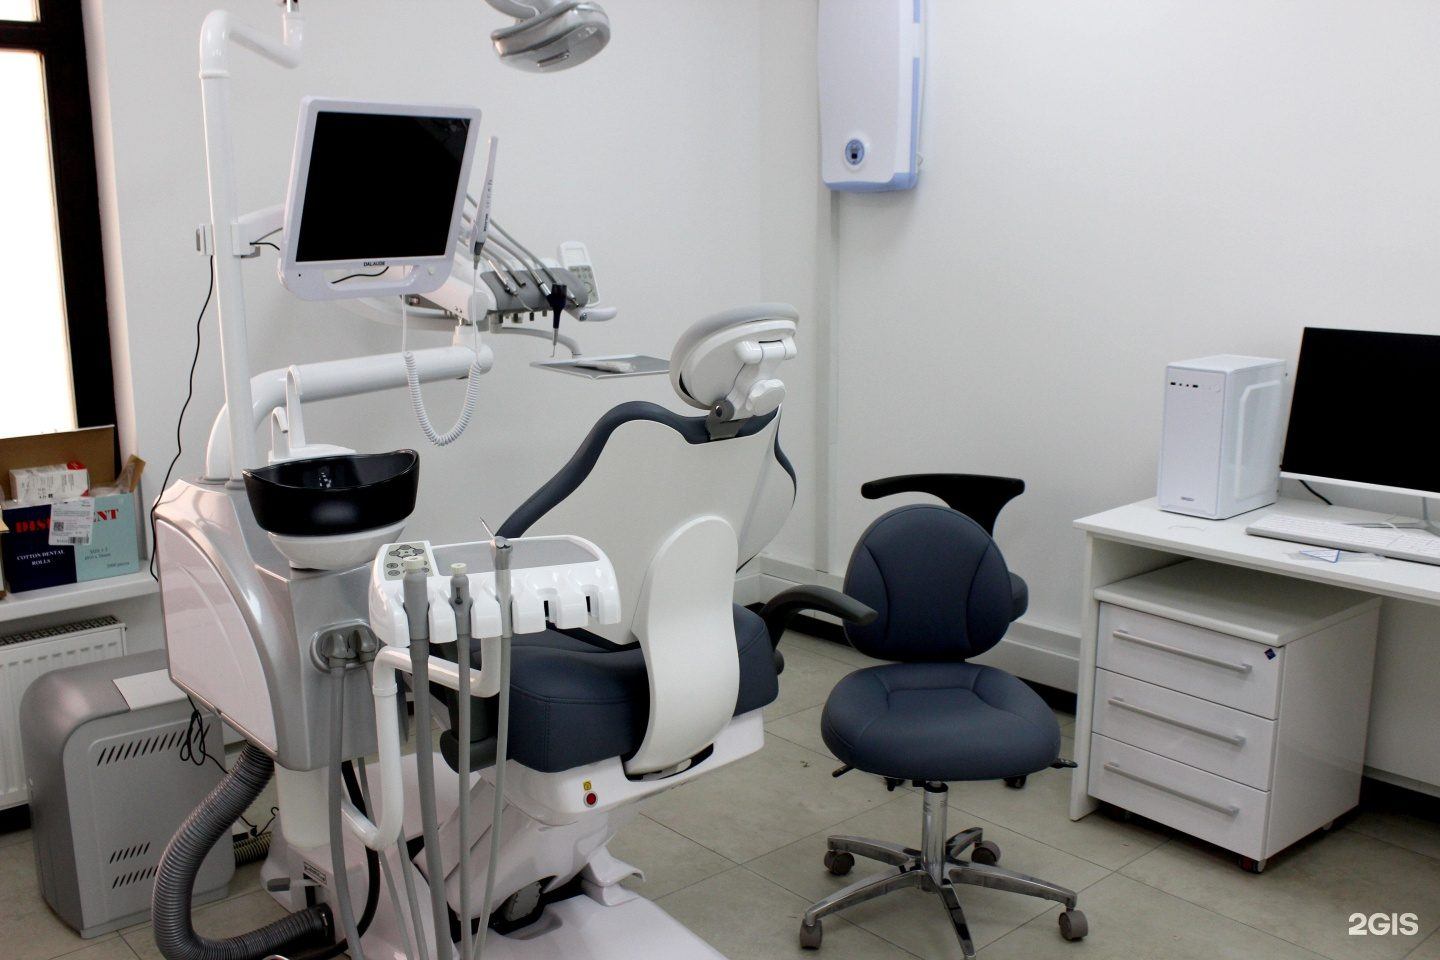
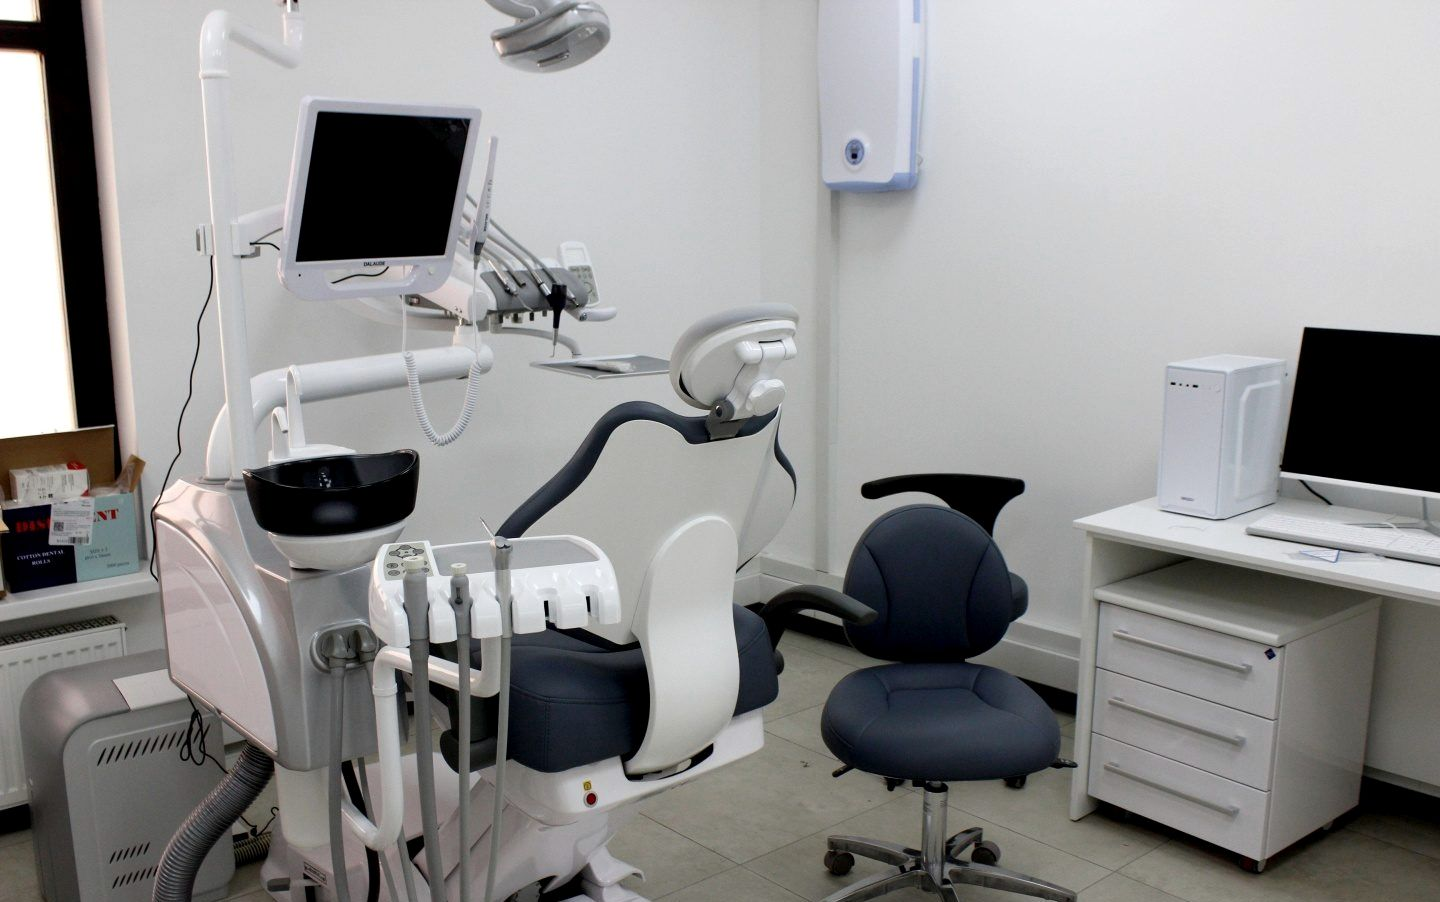
Визуал: карточки услуг с картинками одной серии, фото в круге, ровные колонки, единая обработка фото
Черновик без публикации: новые фото со старого сайта и серия картинок услуг ещё в пути.

Claude-Session: https://claude.ai/code/session_01HyCkfTANowYXdmctWktKaR

diff --git a/src/assets/styles.css b/src/assets/styles.css
@@ -963,3 +963,70 @@ html:not(.js-intro) .intro { display: none; }
   .btn, .btn--lg { font-size: 15px; padding-left: 14px; padding-right: 14px; }
   .doc__cta { font-size: 14px; padding-left: 8px; padding-right: 8px; }
 }
+
+/* ---------- визуальная система 16.10: карточки с картинками одной серии, фото в круге, ровные колонки ---------- */
+/* «С чем вы к нам придёте»: сетка 4 × 2, у каждой карточки своя картинка; восьмая карточка — перезвон */
+.sit-grid { grid-template-columns: repeat(4, minmax(0, 1fr)); }
+.sit, .sit:nth-child(n + 6) { grid-column: auto; min-height: 0; padding: 10px; gap: 0; justify-content: flex-start; }
+.sit::before { display: none; }
+.sit:hover { color: var(--text); }
+.sit:hover .sit__body p { color: var(--muted); }
+.sit__img { position: relative; display: block; aspect-ratio: 4 / 3; overflow: hidden; border-radius: calc(var(--radius) - 8px); background: var(--paper-2); }
+.sit__img img { width: 100%; height: 100%; object-fit: cover; transition: transform 1.2s var(--ease); }
+.sit:hover .sit__img img { transform: scale(1.05); }
+.sit__body { padding: 20px 12px 0; gap: 10px; }
+.sit h3 { font-size: clamp(22px, 1.75vw, 28px); }
+.sit__body p { font-size: 15px; }
+.sit__foot { margin-top: auto; padding: 22px 12px 12px; flex-direction: column; align-items: flex-start; justify-content: flex-end; gap: 12px; }
+.sit--more { background: var(--ink); color: #fff; padding: clamp(22px, 2vw, 30px); }
+.sit--more:hover { color: #fff; }
+.sit--more .sit__body { padding: 0; }
+.sit--more h3 { font-size: clamp(26px, 2.2vw, 36px); }
+.sit--more .sit__body p, .sit--more:hover .sit__body p { color: var(--muted-on-dark); font-size: 16px; }
+.sit--more .sit__foot { padding: 22px 0 0; }
+
+/* «О клинике»: под заголовком фото в круглой маске, колонки уравновешены, без коллажа */
+.about__left { display: grid; gap: clamp(32px, 4vw, 60px); align-content: start; justify-items: start; }
+.about__circle { margin: 0; width: min(100%, 440px); aspect-ratio: 1; border-radius: 50%; overflow: hidden; background: var(--paper-2); }
+.about__circle img { width: 100%; height: 115%; object-fit: cover; }
+.js-anim .about__circle[data-clip] { clip-path: inset(18% 0 18% 0 round 50%); }
+
+/* «Сохранить / Восстановить»: две одинаковые карточки, верх и кнопки на одной линии */
+.fork { align-items: stretch; }
+.fork__col + .fork__col { margin-top: 0; }
+.fork__col { display: flex; flex-direction: column; align-items: flex-start; padding: clamp(24px, 3vw, 44px); border-radius: var(--radius); background: var(--white); }
+.fork__col .cta-box { margin-top: auto; padding-top: 30px; }
+.fork__img { margin: 0 0 clamp(22px, 2.4vw, 32px); width: 100%; aspect-ratio: 16 / 9; border-radius: calc(var(--radius) - 8px); overflow: hidden; background: var(--paper-2); }
+.fork__img img { width: 100%; height: 115%; object-fit: cover; }
+
+/* «Детям»: портрет детского врача в круге */
+.kids__doc { margin: 0; display: grid; justify-items: center; gap: 18px; align-self: center; }
+.kids__circle { display: block; width: min(100%, 460px); aspect-ratio: 1; border-radius: 50%; overflow: hidden; background: var(--sage-2); }
+.kids__circle img { width: 100%; height: 115%; object-fit: cover; object-position: 50% 12%; }
+.js-anim .kids__circle[data-clip] { clip-path: inset(18% 0 18% 0 round 50%); }
+.kids__doc figcaption { display: grid; justify-items: center; gap: 2px; text-align: center; }
+.kids__doc figcaption a { font: 500 20px/1.2 var(--display); letter-spacing: -.01em; color: var(--text); text-decoration: none; }
+.kids__doc figcaption span { font-size: 14px; color: var(--muted); }
+
+@media (max-width: 1200px) {
+  .sit-grid { grid-template-columns: repeat(2, minmax(0, 1fr)); }
+}
+@media (max-width: 1024px) {
+  .about__circle { width: min(70%, 380px); }
+}
+@media (max-width: 760px) {
+  /* компактные карточки: картинка слева, текст справа, кнопка снизу на всю ширину */
+  .sit-grid { grid-template-columns: minmax(0, 1fr); }
+  .sit { display: grid; grid-template-columns: 112px minmax(0, 1fr); column-gap: 14px; padding: 10px; }
+  .sit__img { grid-row: 1; aspect-ratio: 1; border-radius: var(--radius-sm); }
+  .sit__body { grid-row: 1; padding: 4px 4px 0 0; gap: 6px; }
+  .sit h3 { font-size: 20px; }
+  .sit__body p { font-size: 14px; line-height: 1.45; }
+  .sit__foot { grid-column: 1 / -1; padding: 14px 2px 2px; }
+  .sit--more { display: flex; padding: 22px; }
+  .about__left { justify-items: center; }
+  .about__left .about__statement { justify-self: start; }
+  .about__circle { width: min(78%, 320px); }
+  .kids__circle { width: min(78%, 320px); }
+  .fork__col { padding: 22px; }
+}

diff --git a/scripts/photos.py b/scripts/photos.py
@@ -1,0 +1,65 @@
+"""Единая обработка фотографий сайта.
+
+Исходники лежат в src/photos-raw/<папка>/ (в сайт не попадают), результат пишется
+в src/images/<папка>/ с тем же именем в JPEG. Повторный запуск ничего не портит.
+
+Что делаем с каждым фото:
+- 2ГИС: отрезаем нижнюю полосу с водяным знаком «2GIS»;
+- выравниваем баланс белого наполовину (без синевы и желтизны, но без «пластика»);
+- чуть приглушаем насыщенность и выравниваем контраст, чтобы фото из разных
+  источников (2ГИС, Яндекс Карты, старый сайт, ChatGPT) выглядели одной серией;
+- уменьшаем до 1800 px по длинной стороне, JPEG 80, прогрессивный, без EXIF.
+
+Запуск: python3 scripts/photos.py
+"""
+from pathlib import Path
+
+from PIL import Image, ImageEnhance, ImageOps
+
+ROOT = Path(__file__).resolve().parent.parent
+RAW = ROOT / "src" / "photos-raw"
+OUT = ROOT / "src" / "images"
+FOLDERS = ["clinic", "old", "gen2"]
+MAX_SIDE = 1800
+
+
+def balance(im: Image.Image, strength: float = 0.5) -> Image.Image:
+    """Серый мир: каналы тянем к общему среднему на strength."""
+    r, g, b = im.split()
+    means = [sum(i * c for i, c in enumerate(ch.histogram())) / max(1, ch.size[0] * ch.size[1]) for ch in (r, g, b)]
+    avg = sum(means) / 3
+    chans = []
+    for ch, m in zip((r, g, b), means):
+        k = 1 + strength * (avg / max(m, 1) - 1)
+        chans.append(ch.point(lambda v, k=k: max(0, min(255, round(v * k)))))
+    return Image.merge("RGB", chans)
+
+
+def process(src: Path, dst: Path) -> None:
+    im = ImageOps.exif_transpose(Image.open(src)).convert("RGB")
+    if src.stem.startswith("2gis"):
+        w, h = im.size
+        im = im.crop((0, 0, w, round(h * 0.94)))
+    im = balance(im)
+    im = ImageEnhance.Color(im).enhance(0.9)
+    im = ImageEnhance.Contrast(im).enhance(1.03)
+    im.thumbnail((MAX_SIDE, MAX_SIDE), Image.LANCZOS)
+    dst.parent.mkdir(parents=True, exist_ok=True)
+    im.save(dst, "JPEG", quality=80, optimize=True, progressive=True)
+
+
+def main() -> None:
+    for folder in FOLDERS:
+        src_dir = RAW / folder
+        if not src_dir.is_dir():
+            continue
+        for src in sorted(src_dir.iterdir()):
+            if src.suffix.lower() not in {".jpg", ".jpeg", ".png", ".webp"}:
+                continue
+            dst = OUT / folder / (src.stem + ".jpg")
+            process(src, dst)
+            print(f"{folder}/{src.name} -> {dst.relative_to(ROOT)} {Image.open(dst).size}")
+
+
+if __name__ == "__main__":
+    main()
